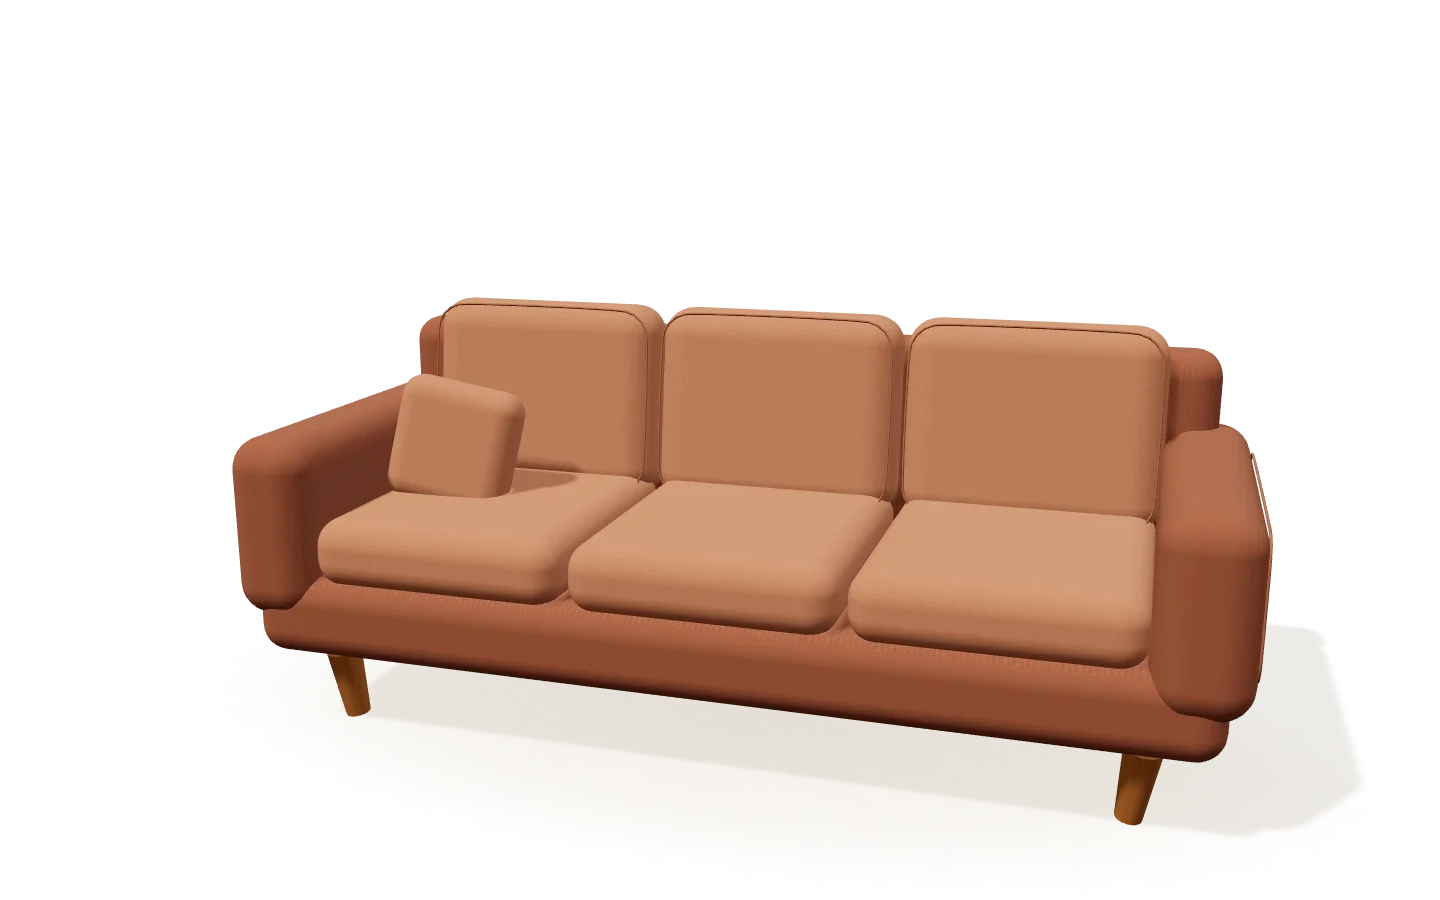
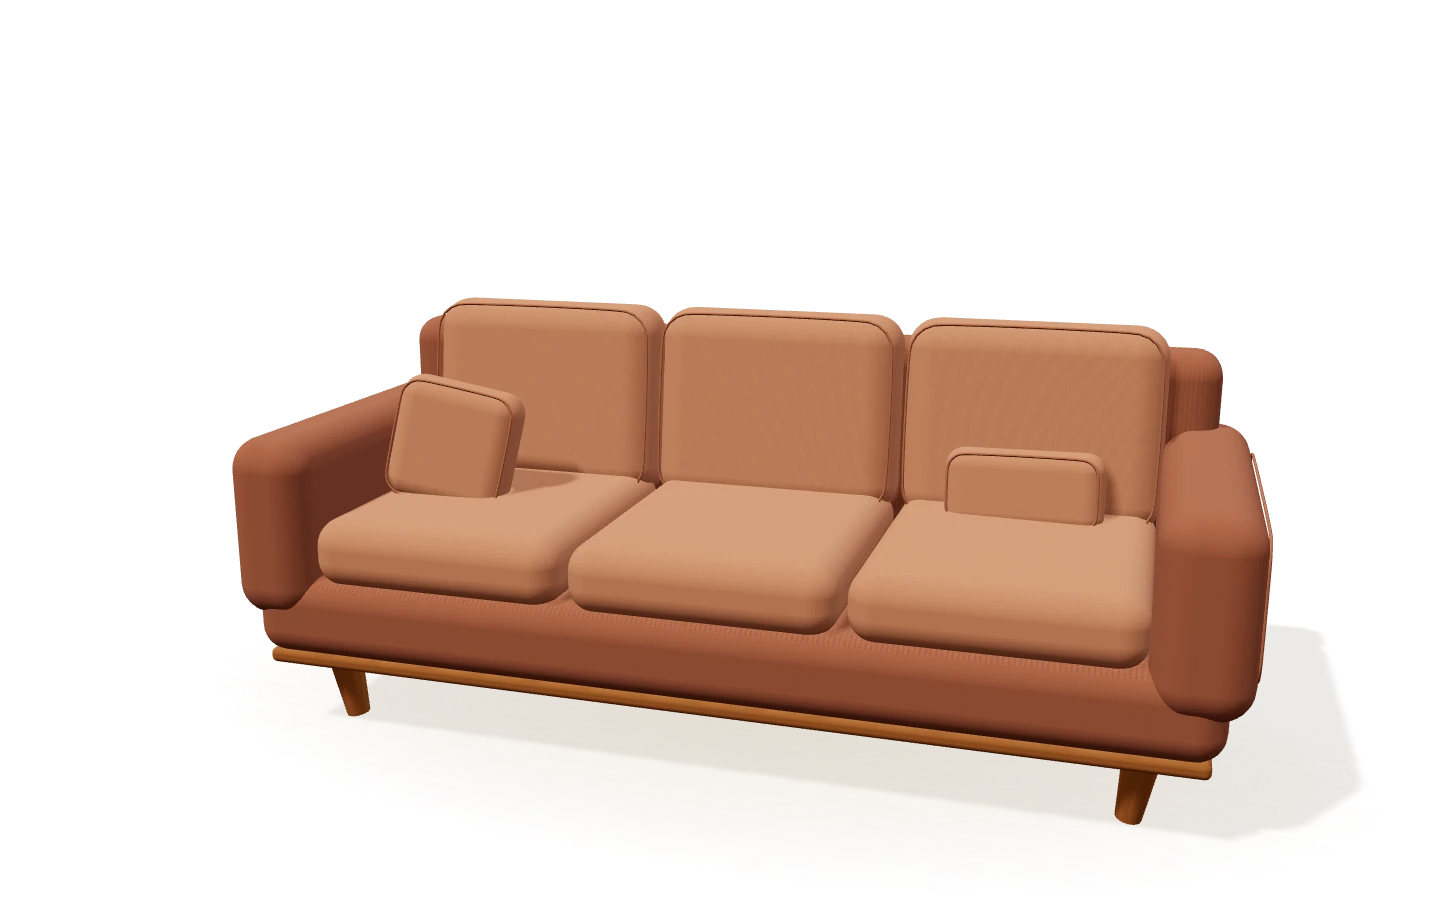
Enhance 3D sofa craftsmanship details, scroll choreography, and static WebP posters

Changed region(s): [[0.1875, 0.7156, 0.8438, 0.9022], [0.6562, 0.4978, 0.7812, 0.5911]]

diff --git a/furniture3d.js b/furniture3d.js
@@ -13,17 +13,17 @@ import {
 
 const clamp = (value, min, max) => Math.max(min, Math.min(max, Number(value) || 0));
 const PALETTES = {
-    lino: { body: '#bfb39e', cushion: '#d9cdb9', seam: '#a99a83' },
-    terracota: { body: '#975d48', cushion: '#bd8065', seam: '#84533f' },
-    oliva: { body: '#6e7560', cushion: '#969a7f', seam: '#626c53' }
+    lino: { body: '#bfb39e', cushion: '#d9cdb9', seam: '#a6967e' },
+    terracota: { body: '#975d48', cushion: '#bd8065', seam: '#81503c' },
+    oliva: { body: '#6e7560', cushion: '#969a7f', seam: '#5e684f' }
 };
 
 const CAMERA_SHOTS = [
     { at: 0, angle: 0.30, scale: 1, detail: false, x: -0.12, y: 1.04, z: 0, elevation: 0.24 },
     { at: 0.14, angle: 0.32, scale: 0.97, detail: false, x: -0.08, y: 1.05, z: 0.02, elevation: 0.24 },
-    { at: 0.44, angle: 0.60, scale: 1, detail: true, x: 0.86, y: 1.08, z: 0.10, elevation: 0.28 },
-    { at: 0.60, angle: 0.49, scale: 1.015, detail: true, x: 0.77, y: 1.05, z: 0.10, elevation: 0.26 },
-    { at: 0.91, angle: -0.38, scale: 1.03, detail: false, x: 0.16, y: 1.07, z: 0, elevation: 0.22 },
+    { at: 0.44, angle: 0.59, scale: 1.01, detail: true, x: 0.85, y: 1.08, z: 0.10, elevation: 0.28 },
+    { at: 0.60, angle: 0.48, scale: 1.02, detail: true, x: 0.76, y: 1.05, z: 0.10, elevation: 0.26 },
+    { at: 0.90, angle: -0.38, scale: 1.03, detail: false, x: 0.16, y: 1.07, z: 0, elevation: 0.22 },
     { at: 1, angle: -0.44, scale: 1.03, detail: false, x: 0.16, y: 1.07, z: 0, elevation: 0.22 }
 ];
 
@@ -32,13 +32,15 @@ function fabricTexture() {
     canvas.width = canvas.height = 128;
     const context = canvas.getContext('2d');
     const data = context.createImageData(128, 128);
-    // Textura pequeña y determinista; no fotografía ni descarga externa.
+    // Textura pequeña y determinista con relieve de trama cruzada artesanal; sin descargas externas.
     let seed = 17;
     for (let y = 0; y < 128; y++) {
         for (let x = 0; x < 128; x++) {
             seed = (seed * 16807) % 2147483647;
-            const weave = (x % 4 === 0 ? -12 : 4) + (y % 4 === 0 ? -10 : 3);
-            const value = 204 + weave + (seed % 17) - 8;
+            const warp = (x % 4 === 0 ? -14 : (x % 2 === 0 ? 6 : 2));
+            const weft = (y % 4 === 0 ? -12 : (y % 2 === 0 ? 5 : 1));
+            const knot = ((x + y) % 8 === 0) ? 7 : 0;
+            const value = clamp(202 + warp + weft + knot + (seed % 15) - 7, 145, 250);
             const index = (y * 128 + x) * 4;
             data.data[index] = data.data[index + 1] = data.data[index + 2] = value;
             data.data[index + 3] = 255;
@@ -47,7 +49,7 @@ function fabricTexture() {
     context.putImageData(data, 0, 0);
     const texture = new CanvasTexture(canvas);
     texture.wrapS = texture.wrapT = RepeatWrapping;
-    texture.repeat.set(5, 5);
+    texture.repeat.set(6, 6);
     texture.colorSpace = SRGBColorSpace;
     texture.anisotropy = 2;
     return texture;
@@ -57,10 +59,10 @@ function woodTexture() {
     const canvas = document.createElement('canvas');
     canvas.width = canvas.height = 64;
     const context = canvas.getContext('2d');
-    context.fillStyle = '#a37a50';
+    context.fillStyle = '#9e7449';
     context.fillRect(0, 0, 64, 64);
     for (let x = 0; x < 64; x += 2) {
-        context.strokeStyle = `rgba(67,38,16,${0.08 + (x % 7) * 0.015})`;
+        context.strokeStyle = `rgba(62,34,14,${0.09 + (x % 7) * 0.016})`;
         context.beginPath();
         context.moveTo(x, 0);
         context.bezierCurveTo(x + 4, 20, x - 4, 45, x + 1, 64);
@@ -83,7 +85,7 @@ function roundedMesh(width, height, depth, radius, material, pillowAxis) {
             const v = pillowAxis === 'y'
                 ? 1 - Math.pow(point.z / (depth / 2), 2)
                 : 1 - Math.pow(point.y / (height / 2), 2);
-            point[pillowAxis] += Math.sign(point[pillowAxis]) * 0.035 * Math.max(0, u * v);
+            point[pillowAxis] += Math.sign(point[pillowAxis]) * 0.038 * Math.max(0, u * v);
             position.setXYZ(i, point.x, point.y, point.z);
         }
         // Conserva las normales suaves del canto redondeado. La deformación es mínima.
@@ -111,7 +113,7 @@ function seam(width, height, radius, material, plane = 'xy') {
         }
     }
     const curve = new CatmullRomCurve3(points, true, 'centripetal');
-    const mesh = new Mesh(new TubeGeometry(curve, 80, 0.0045, 4, true), material);
+    const mesh = new Mesh(new TubeGeometry(curve, 80, 0.005, 4, true), material);
     mesh.castShadow = false;
     return mesh;
 }
@@ -124,7 +126,8 @@ function addSofa(scene, materials) {
         sofa.add(mesh);
         return mesh;
     };
-    // Bastidor tapizado, brazos bajos y patas de madera maciza.
+    // Zócalo inferior de madera noble y bastidor tapizado con brazos bajos.
+    put(roundedMesh(3.34, 0.055, 1.36, 0.022, materials.wood), 0, 0.285, 0);
     put(roundedMesh(3.42, 0.30, 1.43, 0.10, materials.body), 0, 0.45, 0);
     put(roundedMesh(3.32, 0.85, 0.27, 0.10, materials.body), 0, 0.97, -0.60);
     for (const side of [-1, 1]) {
@@ -134,7 +137,7 @@ function addSofa(scene, materials) {
         armSeam.position.set(side * 1.783, 0.79, 0.01);
         sofa.add(armSeam);
         for (const depth of [-0.50, 0.49]) {
-            const leg = new Mesh(new CylinderGeometry(0.065, 0.046, 0.26, 12), materials.wood);
+            const leg = new Mesh(new CylinderGeometry(0.065, 0.044, 0.26, 12), materials.wood);
             leg.position.set(side * 1.45, 0.135, depth);
             leg.rotation.z = side * -0.13;
             leg.rotation.x = depth * 0.17;
@@ -157,11 +160,25 @@ function addSofa(scene, materials) {
         back.add(backSeam);
         sofa.add(back);
     }
-    // Una almohada ligeramente inclinada conserva la silueta limpia.
-    const pillow = roundedMesh(0.49, 0.49, 0.18, 0.085, materials.cushion, 'z');
-    pillow.position.set(-1.16, 1.00, 0.11);
-    pillow.rotation.set(-0.16, 0.12, -0.17);
-    sofa.add(pillow);
+    // Cojines laterales con vivo perimetral que equilibran ambos extremos del sofá.
+    const leftPillowGroup = new Group();
+    leftPillowGroup.position.set(-1.16, 1.00, 0.11);
+    leftPillowGroup.rotation.set(-0.16, 0.12, -0.17);
+    leftPillowGroup.add(roundedMesh(0.49, 0.49, 0.18, 0.085, materials.cushion, 'z'));
+    const leftPillowSeam = seam(0.45, 0.45, 0.075, materials.seam);
+    leftPillowSeam.position.z = 0.086;
+    leftPillowGroup.add(leftPillowSeam);
+    sofa.add(leftPillowGroup);
+
+    const rightLumbarGroup = new Group();
+    rightLumbarGroup.position.set(0.987, 0.91, -0.19);
+    rightLumbarGroup.rotation.set(-0.14, -0.06, 0.02);
+    rightLumbarGroup.add(roundedMesh(0.58, 0.30, 0.15, 0.07, materials.cushion, 'z'));
+    const rightLumbarSeam = seam(0.54, 0.26, 0.06, materials.seam);
+    rightLumbarSeam.position.z = 0.072;
+    rightLumbarGroup.add(rightLumbarSeam);
+    sofa.add(rightLumbarGroup);
+
     sofa.position.y = 0.012;
     return sofa;
 }
@@ -208,7 +225,7 @@ export async function createFurnitureScene(container, { onFailure } = {}) {
         renderer.setPixelRatio(Math.min(window.devicePixelRatio || 1, 1.5));
         renderer.outputColorSpace = SRGBColorSpace;
         renderer.toneMapping = ACESFilmicToneMapping;
-        renderer.toneMappingExposure = 1.13;
+        renderer.toneMappingExposure = 1.14;
         renderer.shadowMap.enabled = true;
         renderer.shadowMap.type = PCFSoftShadowMap;
         renderer.shadowMap.autoUpdate = false;
@@ -218,16 +235,16 @@ export async function createFurnitureScene(container, { onFailure } = {}) {
         textures.push(fabric, wood);
         const palette = PALETTES.lino;
         const upholstery = {
-            body: new MeshStandardMaterial({ color: palette.body, roughness: 0.98, map: fabric, bumpMap: fabric, bumpScale: 0.007 }),
-            cushion: new MeshStandardMaterial({ color: palette.cushion, roughness: 0.98, map: fabric, bumpMap: fabric, bumpScale: 0.009 }),
-            seam: new MeshStandardMaterial({ color: palette.seam, roughness: 1 }),
-            wood: new MeshStandardMaterial({ color: '#ccb18c', map: wood, roughness: 0.76 })
+            body: new MeshStandardMaterial({ color: palette.body, roughness: 0.96, map: fabric, bumpMap: fabric, bumpScale: 0.0085 }),
+            cushion: new MeshStandardMaterial({ color: palette.cushion, roughness: 0.95, map: fabric, bumpMap: fabric, bumpScale: 0.0115 }),
+            seam: new MeshStandardMaterial({ color: palette.seam, roughness: 0.92 }),
+            wood: new MeshStandardMaterial({ color: '#c8ab84', map: wood, roughness: 0.72 })
         };
         materials.push(...Object.values(upholstery));
-        const sofa = addSofa(scene, upholstery);
+        addSofa(scene, upholstery);
         const sky = new HemisphereLight(0xfffaf0, 0x827569, 2.65);
         scene.add(sky);
-        const key = new DirectionalLight(0xfff6e5, 3.0);
+        const key = new DirectionalLight(0xfff6e5, 3.05);
         key.position.set(-2.3, 6.0, 3.7);
         key.castShadow = true;
         key.shadow.mapSize.set(512, 512);
@@ -242,11 +259,14 @@ export async function createFurnitureScene(container, { onFailure } = {}) {
         key.shadow.radius = 3;
         key.target.position.set(0, 0.55, 0);
         scene.add(key, key.target);
-        const fill = new DirectionalLight(0xe9efff, 0.75);
+        const fill = new DirectionalLight(0xe9efff, 0.72);
         fill.position.set(3, 2, -2);
         scene.add(fill);
+        const rim = new DirectionalLight(0xffeed6, 0.52);
+        rim.position.set(-2.4, 2.8, -3.2);
+        scene.add(rim);
 
-        const shadowMaterial = new ShadowMaterial({ color: 0x655747, opacity: 0.12 });
+        const shadowMaterial = new ShadowMaterial({ color: 0x655747, opacity: 0.13 });
         materials.push(shadowMaterial);
         const floor = new Mesh(new PlaneGeometry(30, 30), shadowMaterial);
         floor.rotation.x = -Math.PI / 2;
@@ -257,7 +277,7 @@ export async function createFurnitureScene(container, { onFailure } = {}) {
         contactCanvas.width = contactCanvas.height = 64;
         const contactContext = contactCanvas.getContext('2d');
         const gradient = contactContext.createRadialGradient(32, 32, 3, 32, 32, 32);
-        gradient.addColorStop(0, 'rgba(64,48,29,.20)');
+        gradient.addColorStop(0, 'rgba(64,48,29,.22)');
         gradient.addColorStop(0.65, 'rgba(64,48,29,.12)');
         gradient.addColorStop(1, 'rgba(64,48,29,0)');
         contactContext.fillStyle = gradient;
@@ -274,7 +294,7 @@ export async function createFurnitureScene(container, { onFailure } = {}) {
         const positionCamera = () => {
             const aspect = width / height;
             const wide = Math.max(5.2, 7.1 / aspect);
-            const detail = Math.max(2.8, 3.4 / aspect);
+            const detail = Math.max(2.75, 3.35 / aspect);
             // Tres actos: silueta completa, detalle deliberado y regreso abierto.
             // Los encuadres dejan aire sobre el mueble para la tipografía del sitio.
             let index = 0;

diff --git a/styles.css b/styles.css
@@ -280,7 +280,7 @@ figcaption { display: flex; justify-content: space-between; gap: 16px; font-size
 .scene-wash--linen { background: radial-gradient(ellipse at 17% 13%, #fff6e8 0%, transparent 55%), linear-gradient(128deg, #e9d6bc 12%, #e7c4a9 62%, #c8b8b2); }
 .scene-wash--clay { background: radial-gradient(ellipse at 82% 42%, #efd0b0, transparent 58%), linear-gradient(115deg, #c3afb4 5%, #c48f78 54%, #deb19a); opacity: var(--clay-opacity, 0); transform: translate3d(var(--haze-x, 0px), var(--haze-y, 0px), 0) scale(1.04); }
 .scene-wash--sage { background: radial-gradient(ellipse at 22% 30%, #f0e9d3 0%, transparent 58%), linear-gradient(120deg, #c5baaa, #adb59c 54%, #c6a894); opacity: var(--sage-opacity, 0); transform: translate3d(calc(var(--haze-x, 0px) * -1), calc(var(--haze-y, 0px) * -.5), 0) scale(1.04); }
-.scene-light { position: absolute; width: 70%; height: 90%; top: -25%; left: 22%; background: radial-gradient(ellipse, #fff5e680, #fff5e600 68%); opacity: .7; transform: translate3d(var(--light-x, 0px), var(--light-y, 0px), 0); }
+.scene-light { position: absolute; width: 70%; height: 90%; top: -25%; left: 22%; background: radial-gradient(ellipse, #fff5e680, #fff5e600 68%); opacity: .7; transform: translate3d(var(--light-x, 0px), var(--light-y, 0px), 0) scale(var(--light-scale, 1)); }
 .showroom-heading { top: 36px; }
 .showroom-heading .eyebrow { color: #4f5148; letter-spacing: .18em; max-width: none; }
 .showroom-mode { top: 25px; }
@@ -293,6 +293,7 @@ figcaption { display: flex; justify-content: space-between; gap: 16px; font-size
 .motion-subtitle { overflow: hidden; font-size: clamp(30px, 3.8vw, 54px); font-weight: 300; line-height: 1.3; letter-spacing: .015em; margin-left: .06em; }
 .motion-subtitle > span { display: block; }
 .showroom-live .motion-word { opacity: var(--word-alpha, 0); }
+.showroom-live .motion-line { letter-spacing: var(--word-tracking, .085em); }
 .showroom-live .motion-line > span { transform: translate3d(0, var(--word-y, 0%), 0) scaleX(var(--word-scale, 1)); }
 .showroom-live .motion-subtitle > span { opacity: var(--sub-alpha, 1); transform: translate3d(0, var(--sub-y, 0%), 0); }
 .sofa-view { inset: 0; z-index: 2; }

diff --git a/app.js b/app.js
@@ -93,16 +93,18 @@
                 word.style.setProperty('--word-alpha', (enter * (1 - leave)).toFixed(4));
                 word.style.setProperty('--word-y', ((1 - enter) * 110 - leave * 106).toFixed(2) + '%');
                 word.style.setProperty('--word-scale', (0.94 + enter * 0.06 - leave * 0.025).toFixed(4));
+                word.style.setProperty('--word-tracking', (0.085 + (1 - enter) * 0.045 + leave * 0.03).toFixed(4) + 'em');
                 word.style.setProperty('--sub-alpha', (subEnter * (1 - subLeave)).toFixed(4));
                 word.style.setProperty('--sub-y', ((1 - subEnter) * 115 - subLeave * 110).toFixed(2) + '%');
             });
             const clay = smoothstep(0.10, 0.43, value) * (1 - smoothstep(0.65, 0.91, value));
             stage.style.setProperty('--clay-opacity', clay.toFixed(4));
             stage.style.setProperty('--sage-opacity', smoothstep(0.58, 0.93, value).toFixed(4));
-            stage.style.setProperty('--haze-x', ((value - 0.5) * 80).toFixed(2) + 'px');
-            stage.style.setProperty('--haze-y', (Math.sin(value * Math.PI) * -35).toFixed(2) + 'px');
-            stage.style.setProperty('--light-x', ((value - 0.5) * -100).toFixed(2) + 'px');
-            stage.style.setProperty('--light-y', (value * 24).toFixed(2) + 'px');
+            stage.style.setProperty('--haze-x', ((value - 0.5) * 86).toFixed(2) + 'px');
+            stage.style.setProperty('--haze-y', (Math.sin(value * Math.PI) * -38).toFixed(2) + 'px');
+            stage.style.setProperty('--light-x', ((value - 0.5) * -108).toFixed(2) + 'px');
+            stage.style.setProperty('--light-y', (value * 26).toFixed(2) + 'px');
+            stage.style.setProperty('--light-scale', (1 + Math.sin(value * Math.PI) * 0.14).toFixed(4));
             const distance = Math.min(Math.abs(value - 1 / 3), Math.abs(value - 2 / 3));
             const copyOpacity = smoothstep(0, 0.065, distance);
             stage.style.setProperty('--story-alpha', copyOpacity.toFixed(4));
